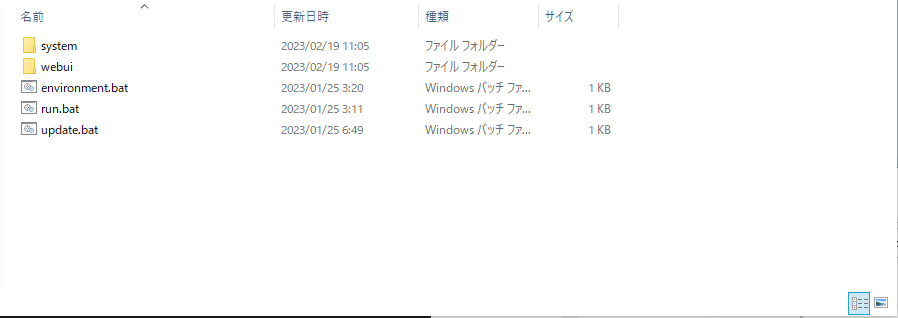
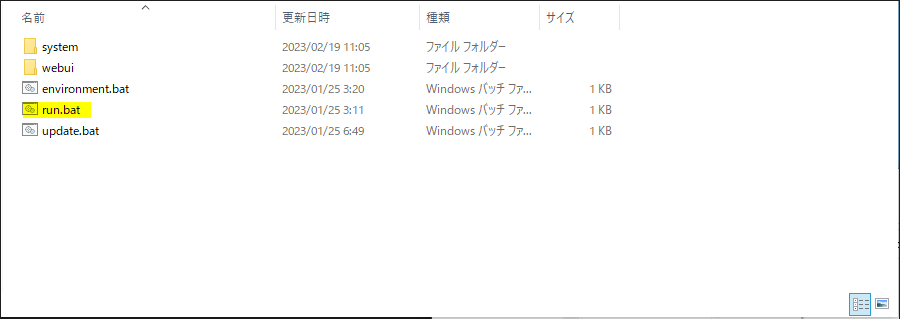
a

diff --git a/parts/ai.html b/parts/ai.html
@@ -2026,8 +2026,8 @@ A	B
     <p><a href="https://huggingface.co/hakurei/waifu-diffusion-v1-4/tree/main/vae">hakurei/wd-1-4-anime_e1/vae</a></p>
     <p>「C:\workspace\sd.webui\run.bat」を実行</p>
     <figure>
-      <img class="beside" src="../img/AI/\ControlNet/環境/VAE.PNG" alt="VAE.PNG">
-      <figcaption>VAE.PNG</figcaption>
+      <img class="beside" src="../img/AI/\ControlNet/環境/run.PNG" alt="run.PNG">
+      <figcaption>run.PNG</figcaption>
     </figure>
 
 </main>
